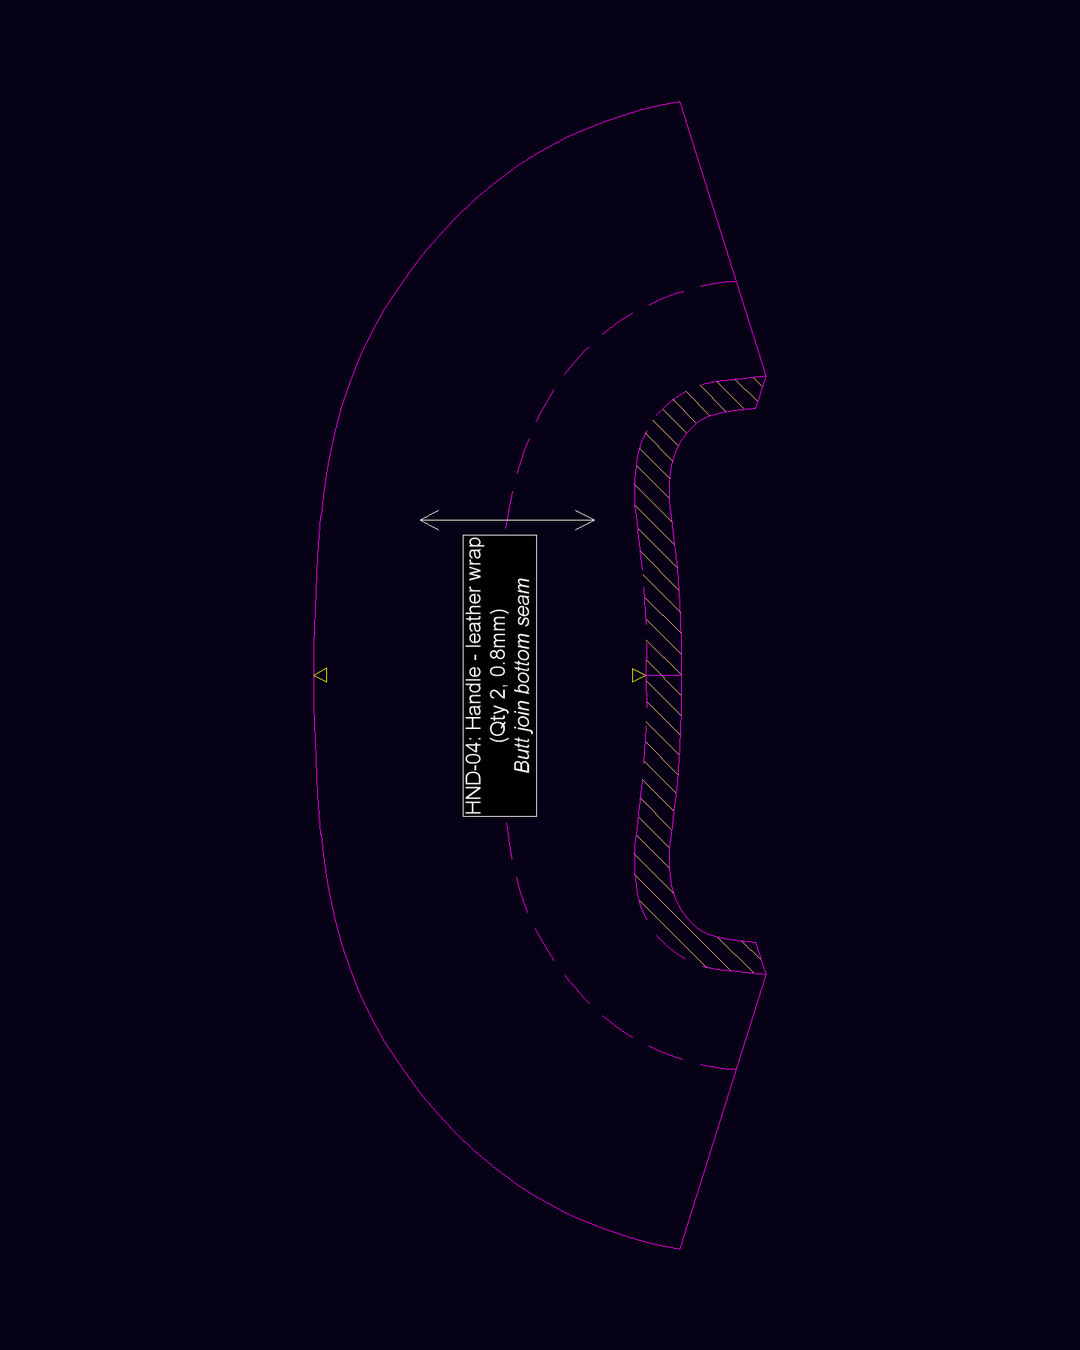
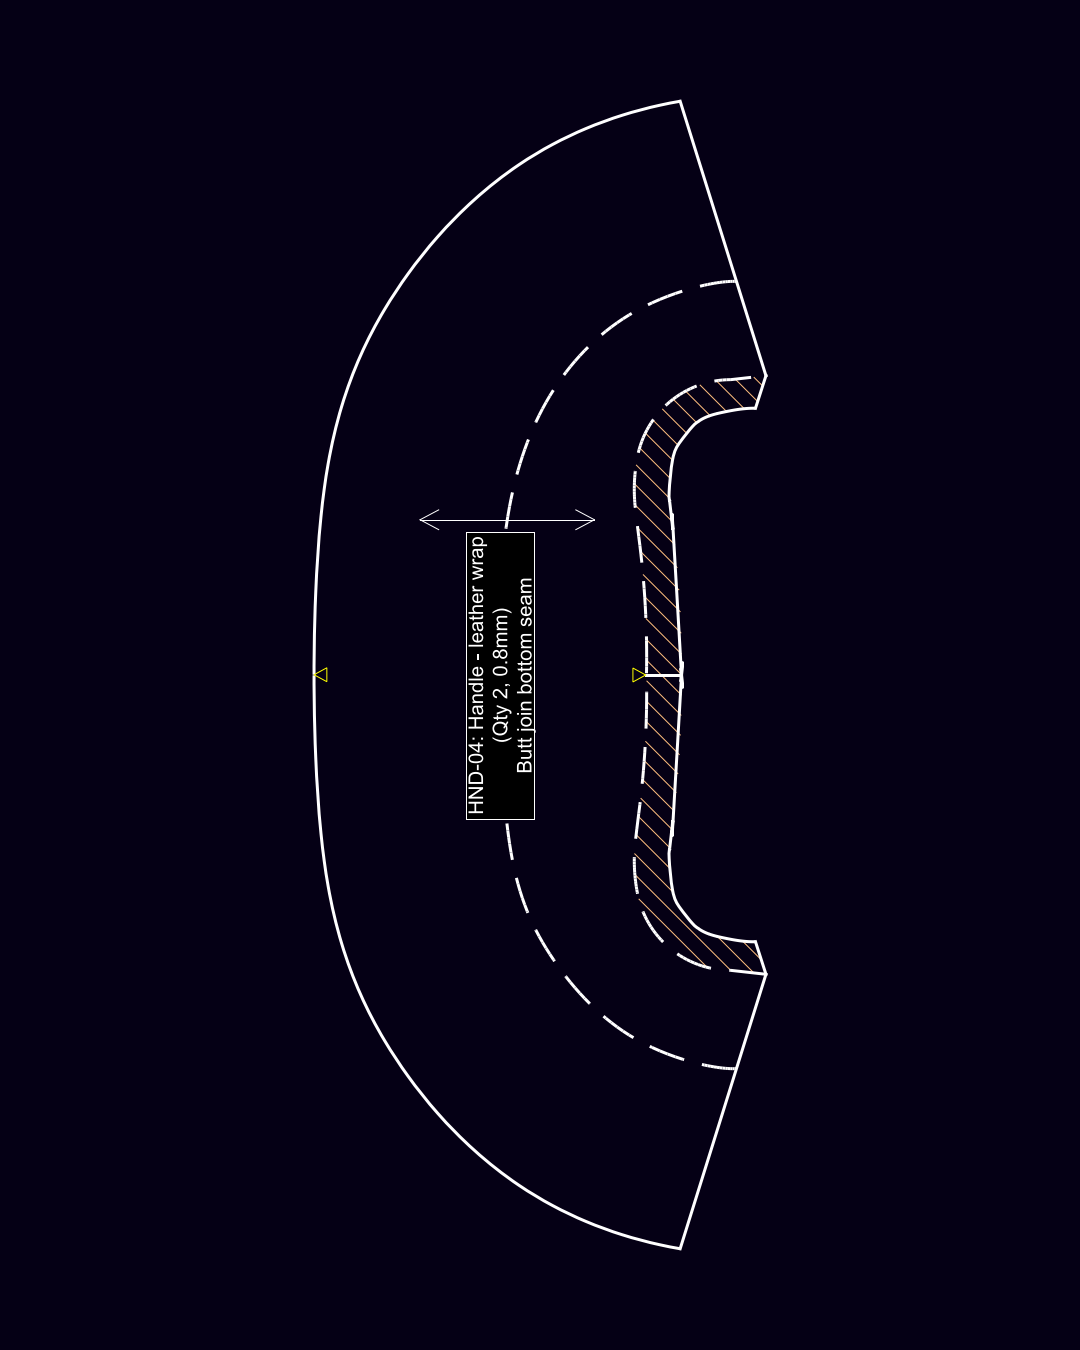
Dulles notes

diff --git a/files/Pattern Index/ACC-176 (Dulles)/export-pattern-pngs/scripts/export_patterns.py b/files/Pattern Index/ACC-176 (Dulles)/export-pattern-pngs/scripts/export_patterns.py
@@ -1,0 +1,119 @@
+"""Render the existing Pat block selection from a disposable DWG conversion."""
+import argparse
+import hashlib
+from pathlib import Path
+import shutil
+import subprocess
+import tempfile
+
+import ezdxf
+from ezdxf import bbox
+from ezdxf.addons.drawing import Frontend, RenderContext
+from ezdxf.addons.drawing.config import Configuration, BackgroundPolicy
+from ezdxf.addons.drawing.matplotlib import MatplotlibBackend
+import matplotlib
+matplotlib.use("Agg")
+import matplotlib.pyplot as plt
+from PIL import Image
+
+ROOT = Path(__file__).resolve().parents[2]
+BACKGROUND = "#050015"
+WIDTH, HEIGHT, DPI = 1080, 1350, 100
+
+
+class PatternFrontend(Frontend):
+    def override_properties(self, entity, properties):
+        color = properties.color[:7]
+        r, g, b = (int(color[i:i + 2], 16) for i in (1, 3, 5))
+        pink = r > 100 and b > 100 and g < min(r, b) * 0.6
+        # CAD screenshots use nominal one-pixel strokes; matplotlib uses points.
+        properties.lineweight = (3 if pink else 1) * 72 / DPI
+        if pink:
+            properties.color = "#ffffff"
+
+
+def render(dxf, output, names):
+    doc = ezdxf.readfile(dxf)
+    inserts = {}
+    for entity in doc.modelspace().query("INSERT"):
+        inserts.setdefault(entity.dxf.name, []).append(entity)
+    for name in names:
+        if len(inserts.get(name, [])) != 1:
+            raise ValueError(f"Expected exactly one model-space insert for {name}")
+    output.mkdir(parents=True, exist_ok=True)
+    config = Configuration(background_policy=BackgroundPolicy.CUSTOM,
+                           custom_bg_color=BACKGROUND, min_lineweight=0,
+                           lineweight_scaling=1)
+    for name in names:
+        entity = inserts[name][0]
+        bounds = bbox.extents([entity])
+        if not bounds.has_data:
+            raise ValueError(f"No geometry for {name}")
+        cx, cy = bounds.center.x, bounds.center.y
+        scale = max(bounds.size.x / (WIDTH * 0.85),
+                    bounds.size.y / (HEIGHT * 0.85))
+        fig = plt.figure(figsize=(WIDTH / DPI, HEIGHT / DPI), dpi=DPI,
+                         facecolor=BACKGROUND)
+        ax = fig.add_axes([0, 0, 1, 1])
+        ax.set_axis_off()
+        ctx = RenderContext(doc)
+        ctx.set_current_layout(doc.modelspace())
+        backend = MatplotlibBackend(ax)
+        frontend = PatternFrontend(ctx, backend, config=config)
+        frontend.draw_entities([entity])
+        backend.finalize()
+        fig.set_size_inches(WIDTH / DPI, HEIGHT / DPI)
+        ax.set_xlim(cx - WIDTH * scale / 2, cx + WIDTH * scale / 2)
+        ax.set_ylim(cy - HEIGHT * scale / 2, cy + HEIGHT * scale / 2)
+        ax.set_aspect("equal", adjustable="box")
+        target = output / f"{name}.png"
+        fig.savefig(target, dpi=DPI, facecolor=BACKGROUND)
+        plt.close(fig)
+        with Image.open(target) as image:
+            if image.size != (WIDTH, HEIGHT):
+                raise ValueError(f"Incorrect dimensions: {target}")
+            image.convert("RGB").save(target)
+        print(target.name, flush=True)
+
+
+def main():
+    parser = argparse.ArgumentParser(description=__doc__)
+    parser.add_argument("--source", type=Path, default=ROOT / "Redraw.dwg")
+    parser.add_argument("--output", type=Path, default=ROOT / "Pat")
+    parser.add_argument("--dxf", type=Path, help="Use an already converted local DXF")
+    parser.add_argument("--blocks", nargs="+", help="Default: existing Pat PNG names")
+    parser.add_argument("--converter", type=Path, default=Path(
+        "C:/Program Files/Autodesk/AutoCAD 2022/accoreconsole.exe"))
+    args = parser.parse_args()
+    names = args.blocks or sorted(p.stem for p in (ROOT / "Pat").glob("*.png"))
+    if not names or any(Path(n).name != n or "/" in n or "\\" in n for n in names):
+        raise ValueError("Block names must be nonempty, plain filenames")
+    before = hashlib.sha256(args.source.read_bytes()).hexdigest()
+    with tempfile.TemporaryDirectory(prefix="dulles-render-") as directory:
+        scratch = Path(directory)
+        dxf = args.dxf
+        if dxf is None:
+            copy = scratch / "source.dwg"
+            shutil.copy2(args.source, copy)
+            dxf = scratch / "source.dxf"
+            script = scratch / "export.scr"
+            script.write_text('(setvar "FILEDIA" 0)\n'
+                f'(command "_.DXFOUT" "{dxf.as_posix()}" "_V" "2013" "16")\n'
+                '_.QUIT\n_Y\n', encoding="ascii")
+            result = subprocess.run([str(args.converter), "/i", str(copy),
+                "/s", str(script)], cwd=scratch, capture_output=True, timeout=180)
+            if result.returncode or not dxf.is_file():
+                raise RuntimeError(result.stdout.decode("utf-16-le", errors="replace"))
+        # Stage the complete batch before replacing any published PNGs.
+        staged = scratch / "png"
+        render(dxf, staged, names)
+        if hashlib.sha256(args.source.read_bytes()).hexdigest() != before:
+            raise RuntimeError("Source DWG changed during export")
+        args.output.mkdir(parents=True, exist_ok=True)
+        for name in names:
+            shutil.copy2(staged / f"{name}.png", args.output / f"{name}.png")
+    print(f"Validated {len(names)} PNGs at {WIDTH}x{HEIGHT}; source DWG unchanged.")
+
+
+if __name__ == "__main__":
+    main()

diff --git a/_posts/2026-11-01-DULLES_Bag.md b/_posts/2026-11-01-DULLES_Bag.md
@@ -9,7 +9,9 @@ tags:
   - Bag making
 math: true
 planning_tag: In Progress
-planning_status: "Sample hardware pieces ordered. Working on pattern validation and experimenting with handle construction."
+planning_status: "Sample hardware pieces ordered. Working on prototype build."
+math: true
+toc: "true -2"
 ---
 
 # Introduction
@@ -17,15 +19,15 @@ planning_status: "Sample hardware pieces ordered. Working on pattern validation 
 The Dulles bag is a hinged, top frame bag also known as a doctor's.  From the side, it is triangular, with a broad base narrowing toward the handles. It is characterized by the frame, front clasp, and lock.
 
 <figure>
-  <img src="/files/acc-175 DULLES/0170034.png">
-   <figcaption>John Foster Dulles (right) arrives in New York with his brother Allen Dulles on October 4, 1948. A prominent American diplomat, he would later lead negotiations for the 1951 San Francisco Peace Treaty, restoring Japan's sovereignty and helping lay the foundations of the postwar U.S.-Japan alliance. Source: Granger Historical Picture Archive, No. 0170034. AI-upscaled and enhanced.</figcaption>
+  <img src="/files/acc-175 DULLES/0170034_small.png">
+   <figcaption>John Foster Dulles (right) arrives in New York with his brother Allen Dulles on October 4, 1948. Source: Granger Historical Picture Archive, No. 0170034. AI-upscaled and enhanced.</figcaption>
 </figure>
 
 The Dulles name comes from John Foster Dulles, who visited Japan in 1951 to negotiate the San Francisco Peace Treaty, which would end the Allied occupation and restore Japan's sovereignty the following year. Ginza Tanizawa's second-generation owner, Koshichi Tanizawa, noticed his bag in a newspaper photograph and developed a version of his own. Released that year as the "Dulles bag," it was advertised as a "Symbol of Peace," tying the bag to the purpose of his visit. The style caught on and became an established part of Japanese business wear.
 
 <figure>
   <img src="/files/acc-175 DULLES/book2.png">
-   <figcaption>The Book of Dulles Bag Making (2013). A Japanese leathercraft manual documenting the traditional construction of a Dulles briefcase, from material preparation and pattern making to hand-stitching and final assembly. The book translates the methods of an experienced craftsman into an illustrated, step-by-step guide. Published October 5, 2013. 208 pages, hardcover. ISBN 978-4-88393-628-1.</figcaption>
+   <figcaption>The Book of Dulles Bag Making (2013). Published October 5, 2013. 208 pages, hardcover. ISBN 978-4-88393-628-1.</figcaption>
 </figure>
 
 # References
@@ -159,9 +161,13 @@ Miscellaneous collection.
 
 # Hardware
 
+The visual identity of the bag: briefcase handle, lock, top frame and darted gussets means we can't use conventional off-the-shelf hardware. 
+
 ## Bridge/Arch bridge/Post handle mount
 
-The generic English term appears to be briefcase handle mounting bracket or handle mounting bridge, although neither is a consistently standardized hardware name.
+The generic English term appears to be briefcase handle mounting bracket or handle mounting bridge, although neither is a consistently standardized hardware name. A conventional D-ring can not be used here because there is no room on the top frame to attach a handle chape (in the conventional sense). Instead, we need the chape built into the D-ring. Consequently, the functionality of the swivel and attachment point have to be a single assembly.
+
+Some terms that bring up results are:
 
 - 立てカン (tate-kan), also written 立カン, meaning roughly upright handle fitting.
 - ダレスバッグ用取っ手カン, meaning Dulles bag handle fitting.
@@ -174,23 +180,25 @@ The generic English term appears to be briefcase handle mounting bracket or hand
    <figcaption></figcaption>
 </figure>
 
-| Store | Material | MOQ |
-| --- | --- | --- |
-| [Hility](https://hilitybaghardware.com/products/handle-holder) | 316L | |
-| [MK Plus](https://mkplus.biz/item/R-337-B-20/) | Brass | |
-| [Carosung](https://www.carosung.com/product/fashionable-stainless-steel-bridge-for-briefcase/) | Stainless | True |
-| AliExpress | Coated Zinc | |
-| [Leather Craft Pattern](https://www.leathercraftpattern.com/Dulles-bag-hardware-kit) | Coated Brass | |
+| Store | Material |
+| --- | --- |
+| [Hility](https://hilitybaghardware.com/products/handle-holder) | 316L 
+| [MK Plus](https://mkplus.biz/item/R-337-B-20/) | Brass 
+| [Carosung](https://www.carosung.com/product/fashionable-stainless-steel-bridge-for-briefcase/) | Stainless 
+| AliExpress | Coated Zinc |
+| [Leather Craft Pattern](https://www.leathercraftpattern.com/Dulles-bag-hardware-kit) | Coated Brass 
 
 > 2026/11/05: Ordered from from LCP and a pure brass option from Taibao.
 
 ## Clasp/Lock
 
-(Amiet)
+There are plenty of options bag locks in various designs, materials and sizes. However, narrowing down the options to designs suitable for a Dulles bag, larger size and either brass or plated stainless steel is more narrow.
 
-Lots of options for design, style, and materials. Selection for larger clasps that are either brass or stainless steel, then plated is more narrow. 
+### WUTA stanless steel rectangular clasp
 
-Angular 32mm x 40mm stainless steel option sold by several vendors.
+This is a smaller size lock measuring 32mm x 40mm. Its sold by several vendors, but readily available from WUTA. It is available in stainless steel or in a polished gold plated finish.
+
+> Ordered: good quality option
 
 {% gallery %}
 - image: "/files/acc-175 DULLES/Hardware/wuta-lock-1.png"
@@ -201,18 +209,28 @@ Angular 32mm x 40mm stainless steel option sold by several vendors.
   caption: ""
 {% endgallery %}
 
+### WUTA brass Dulles lock
+
 More traditional round options like this, measuring 47mm x 55mm, are available in zinc, brass and stainless steel, with plated versions of the zinc and stainless steel options.
+
+> Incoming
 
 <figure>
   <img src="/files/acc-175 DULLES/Hardware/wuta-lock-3.png">
    <figcaption></figcaption>
 </figure>
 
-> 2026/11/05: Ordered WUTA stainless steel (gold plated) and Durex brass clone.
+### Taibao brass Dulles lock
+
+> I don't like how the attachment piece attaches to the flap. It has no plate backing and is intended to be rivetted to the leather.
+
+### Amiet lock
+
+TBD.
 
 ## Bag Feet
 
-The bag rests on the exposed edge of the bottom panel, so the feet need to mount over that edge.
+The bag rests on the lower edges of the front and back panels. The _bottom panel_ sits between them, folding inward like an accordion rather than forming a flat, rigid base for stud feet. I need C-shaped feet that wrap around those panel edges, putting the feet where the bag actually meets the ground.
 
 The AliExpress options I've found all seem to be plated zinc, with no solid brass or stainless steel versions. Plating seems like a poor choice for something that will get this much wear.
 
@@ -220,6 +238,8 @@ The AliExpress options I've found all seem to be plated zinc, with no solid bras
   <img src="/files/acc-175 DULLES/Hardware/alix-edge-1.png">
   <figcaption></figcaption>
 </figure>
+
+> Color tone is wrong. Not a strong option.
 
 One possibility is to modify bracelet components or beads. These are available in solid brass and stainless steel, but would need a channel cut into them to fit over the panel edge.
 
@@ -238,7 +258,17 @@ Leather Craft Pattern also has some nicely finished feet.
 > 2026/11/05: Ordered from from LCP and gold plated variant from Taibao.
 
 
-# Assembly notes
+
+
+### etc
+
+https://countless-river.net/?pid=84608460
+
+page 179 - hardwrae
+
+page 82 handle
+
+# Beta testing and assembly notes
 
 ## Handle
 
@@ -434,7 +464,7 @@ Gusset: no stiffener, total thickness with lining is 2mm
 - Notes for the lining material
   - Stretchy, so cut-to-size after gluing
   - Shows glue stains and clumps easily
-  - 3M Super66 spray adhesive works great here
+  - 3M Super77 spray adhesive works great here
 - Wrap lining around the bottom edge of `PART-01`, `PART-03` so that the top edge is exposed
 - Trim pieces `PART-02`, `PART-04` require a lot of care
   - The cut being square, centerline and the folded edge directly impact how the trim sits on the panel

diff --git a/files/Pattern Index/ACC-176 (Dulles)/export-pattern-pngs/SKILL.md b/files/Pattern Index/ACC-176 (Dulles)/export-pattern-pngs/SKILL.md
@@ -1,0 +1,40 @@
+---
+name: export-pattern-pngs
+description: Regenerate Dulles CAD pattern block PNGs from Redraw.dwg, retaining block filenames and 1080x1350 framing while rendering pink lines white at triple width.
+---
+
+# Export pattern PNGs
+
+Use `scripts/export_patterns.py` for the Dulles pattern images. Paths default to this skill's parent directory: `Redraw.dwg` is the source and `Pat/` is the destination. The current selection is the 23 existing PNG basenames, each matching one model-space block insert. Do not export helper, stitch, or marker blocks separately.
+
+## Render
+
+The script requires Python, ezdxf 1.4.5, matplotlib 3.11.2, Pillow 13.0.0, and the installed AutoCAD Core Console. Keep Python dependencies in a temporary environment if they are unavailable; do not add them to the website's dependencies. The default converter is `C:/Program Files/Autodesk/AutoCAD 2022/accoreconsole.exe`; override with `--converter` if necessary.
+
+Run from any working directory:
+
+```powershell
+python "<skill-directory>/scripts/export_patterns.py"
+```
+
+The converter needs access to the user's AutoCAD profile. A sandboxed run may fail with `Problem with setting up current profile`; use the execution tool's normal approval mechanism to retry with profile access. Do not modify the profile or source drawing to work around this.
+
+The script converts a temporary DWG copy to DXF outside the repository, renders and validates the entire batch, then replaces the selected PNGs. It verifies the source DWG hash is unchanged. Never publish intermediate DXF/SVG/PDF vector exports. Use the latest saved drawing; unsaved application edits are not included.
+
+Optional arguments:
+
+- `--output <directory>`: stage a preview outside `Pat`.
+- `--blocks BOT-01 FP-01 HND-01`: render only named blocks, or explicitly include a newly requested block.
+- `--source <drawing.dwg>`: select another source.
+- `--dxf <temporary-source.dxf>`: reuse a verified conversion of the current saved DWG while iterating. Omit for the final end-to-end run.
+
+## Rendering contract
+
+- PNG only, exactly 1080 x 1350 pixels, filename equal to the block name.
+- Original dark background `#050015`, centered geometry, 85% maximum canvas occupancy, original orientation and aspect ratio.
+- Resolved pink/magenta strokes become white, including inherited block/layer colors. Nominal screenshot stroke width changes from 1 to 3 pixels. This is an output styling change, not a DWG edit.
+- Keep other line colors, labels, hatch patterns, stitching, and layer visibility. The rasterizer uses available fonts, so typography can differ from the CAD application's font substitution.
+
+## Verify
+
+Check the script's dimension/count/hash validation. Inspect representative broad, narrow, curved, and hatched blocks at full size, plus a contact sheet of the batch for clipping or missing content. Confirm no pink strokes remain and the filenames still match the intended block set. Inspect the git diff for unintended artifacts; keep temporary conversions and previews outside the repository. Do not modify unrelated user edits.
